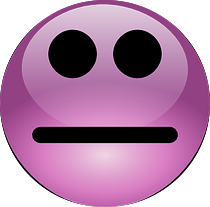
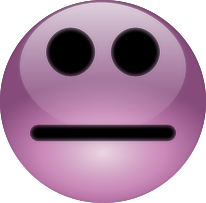
Slider bubbles fixed

diff --git a/src/Pages/ProfilePage/Slider.js b/src/Pages/ProfilePage/Slider.js
@@ -4,7 +4,7 @@ import { withStyles } from '@material-ui/core/styles'
 import styled from 'styled-components'
 
 import sad from 'assets/sad.png'
-import annoyed from 'assets/annoyed.png'
+import angry from 'assets/angry.png'
 import stressed from 'assets/stressed.png'
 import neutral from 'assets/neutral.png'
 import happy from 'assets/happy.png'
@@ -43,20 +43,25 @@ const CustomSlider = withStyles({
   }
 })(Slider)
 
+const Image = styled.img`
+  width: 70px; 
+  height: 70px;
+`
+
 const generateLabel = (number) => {
   switch (number) {
     case 0:
-      return (<img alt="sad"src={sad} style={{width: 25, height: 25}} />)
+      return (<Image alt="sad"src={sad} />)
     case 0.2:
-      return (<img alt="sad"src={annoyed} style={{width: 25, height: 25}} />)
+      return (<Image alt="sad"src={angry} />)
     case 0.4:
-      return (<img alt="sad"src={stressed} style={{width: 25, height: 25}} />)
+      return (<Image alt="sad"src={stressed} />)
     case 0.6:
-      return (<img alt="sad"src={neutral} style={{width: 25, height: 25}} />)
+      return (<Image alt="sad"src={neutral} />)
     case 0.8:
-      return (<img alt="sad"src={relaxed} style={{width: 25, height: 25}} />)
+      return (<Image alt="sad"src={relaxed}  />)
     default:
-      return (<img alt="sad"src={happy} style={{width: 25, height: 25}} />)
+      return (<Image alt="sad"src={happy} />)
   }
 }
 
@@ -77,14 +82,17 @@ const generateText = (number) => {
   }
 }
 
-const Marker = styled.p`
-  color: #fff;
-  background-color: #BCA0BC;
-  margin-bottom: 40px;
-  padding: 10px 10px;
-  border-radius: 6px;
+const Marker = styled.div`
   width: 100px;
-  text-align: center;
+  height: 100px;
+  border-radius: 50%;
+  margin-bottom: 40px;
+  padding: 2px;
+  display: flex;
+  align-items: center;
+  justify-content: center;
+  background: rgb(188,160,188);
+  background: radial-gradient(circle, rgba(188,160,188,1) 0%, rgba(255,255,255,1) 70%);
 `
 
 const SliderWrapper = styled.div`
@@ -100,13 +108,13 @@ const FeelingsSlider = ({ value, setValue }) => {
 
   return (
     <>
-      <Marker>{generateText(value)}</Marker>
+      <Marker>{generateLabel(value)}</Marker>
       <SliderWrapper>
         <CustomSlider
           min={0}
           max={1}
           step={0.2}
-          valueLabelFormat={generateLabel(value)}
+          valueLabelFormat={generateText(value)}
           valueLabelDisplay="auto"
           defaultValue={0}
           value={value}

diff --git a/src/index.css b/src/index.css
@@ -39,7 +39,6 @@ abbr[title] {
   background-color: #83A0A0 !important;
 }
 
-
 .react-calendar button {
   height: 55px !important;
   padding: 10px !important;
@@ -70,7 +69,6 @@ abbr[title] {
   color: #404167 !important;
 }
 
-
 .react-calendar__month-view__days__day--neighboringMonth {
   color: #e6e6e6 !important;
 }
@@ -83,12 +81,14 @@ abbr[title] {
   max-height: 0;
   transition: max-height 0.35s cubic-bezier(0, 1, 0, 1);
 }
+
 .open {
   overflow: hidden;
   transition: max-height 0.3s cubic-bezier(1, 0, 1, 0);
   height: auto;
   max-height: 9999px;
 }
+
 .footer-link {
   text-decoration: none;
   color: #404167;
@@ -102,4 +102,27 @@ abbr[title] {
 .footer-icon {
   text-decoration: none;
   color: #404167;
+}
+
+.MuiSlider-valueLabel {
+  font-size: 0.5rem !important;
+  width: 50px !important;
+  
+}
+
+.MuiSlider-thumb:hover .MuiSlider-valueLabel {
+  transform: scale(1.5) !important;
+  top: -50px;
+  left: calc(-50% + 7px) !important;
+}
+
+.MuiSlider-thumb:active .MuiSlider-valueLabel {
+  transform: scale(1.5) !important;
+  top: -50px;
+  left: calc(-50% + 7px) !important;
+}
+.MuiSlider-thumb:focus .MuiSlider-valueLabel {
+  transform: scale(1.5) !important;
+  top: -50px;
+  left: calc(-50% + 7px) !important;
 }
